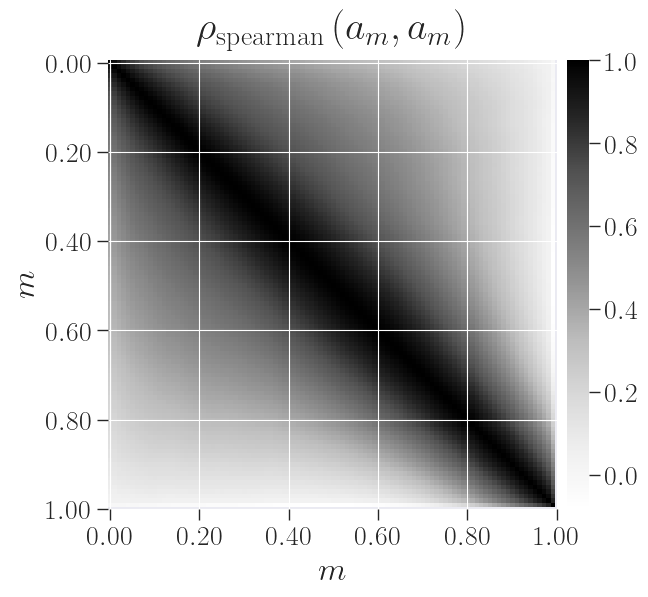
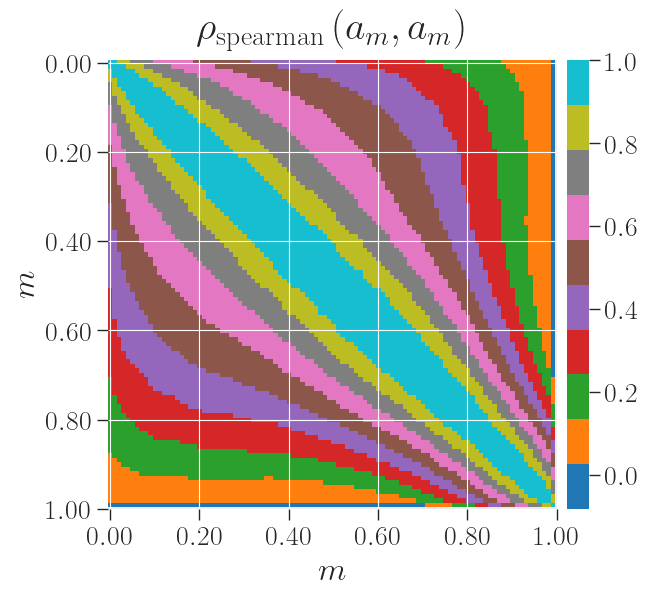
use tab10 by default

diff --git a/bin/figures.py b/bin/figures.py
@@ -858,7 +858,7 @@ class CovarianceAm(Figure):
     cache_name = "covariance_am"
 
     def _set_rc(self):
-        return set_rc(fontsize=24, cmap="Greys")
+        return set_rc(fontsize=24, cmap="tab10")
 
     def get_data(self):
         mahdir = ROOT.joinpath("data", "processed", "bolshoi_m12")
